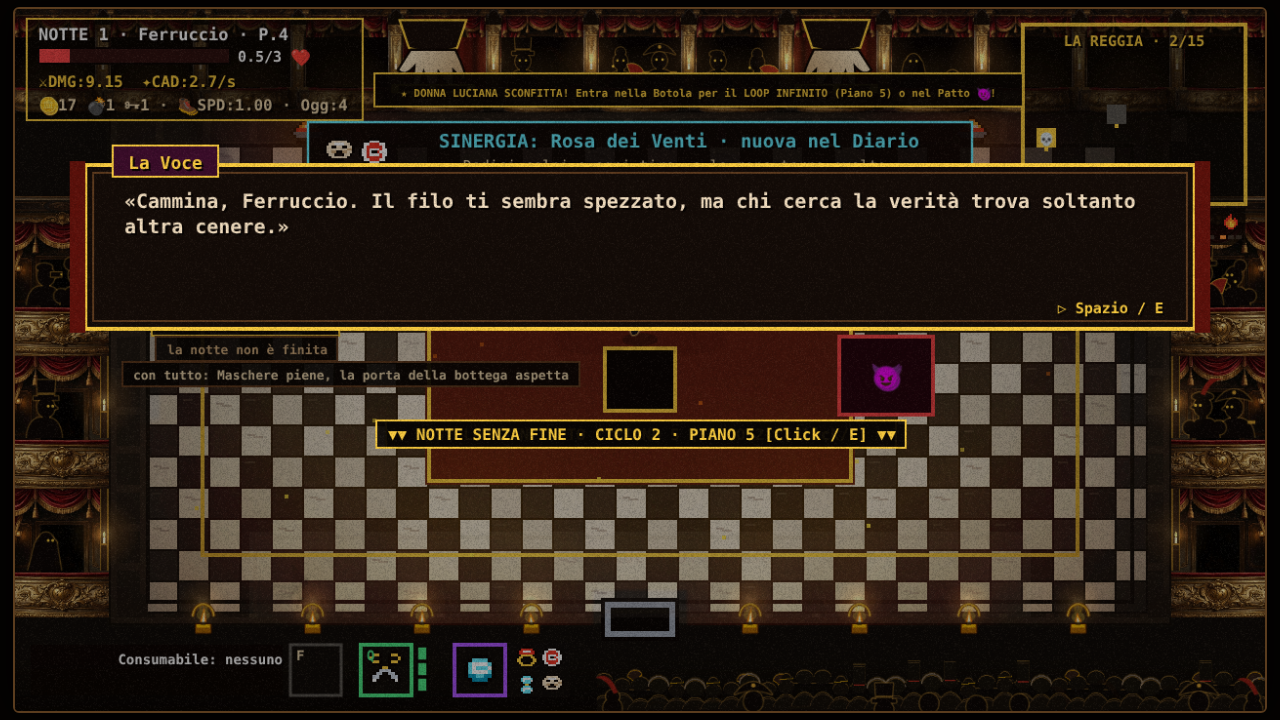
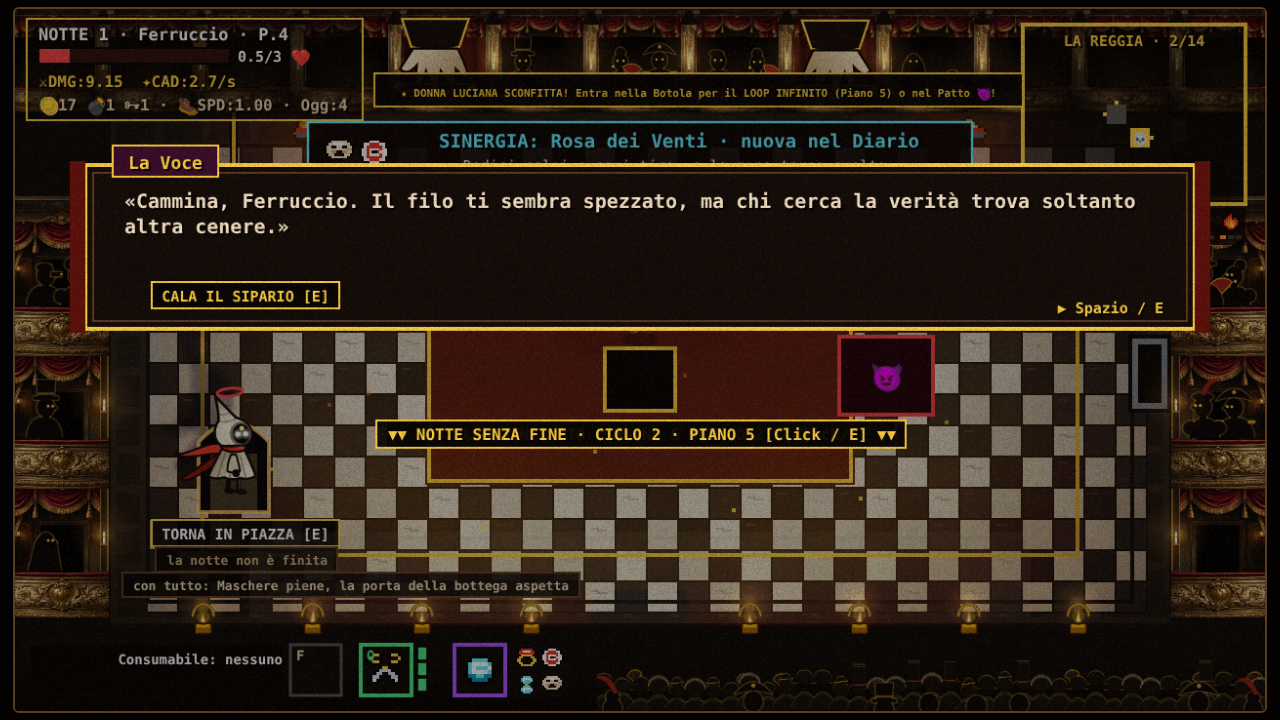
fix(teatro): h4 il cordone del sipario resta, la seconda uscita gli sta sotto
La suite finali si aspetta il cordone dopo la seconda caduta di Donna Luciana: ora ci sono entrambi.

Claude-Session: https://claude.ai/code/session_01F5x6kDAQ4qaiYDiFx9jQb5

diff --git a/gioco/teatro/h4-ritorno-piazza.js b/gioco/teatro/h4-ritorno-piazza.js
@@ -32,8 +32,8 @@
 // ===========================================================================
 const RITORNO_H4 = Object.freeze({
   bossFinale: 'donna-luciana',
-  /** La seconda uscita nella stanza di Donna Luciana (dove b8 metteva il cordone del sipario). */
-  uscita: Object.freeze({ x: 112, y: 128, raggio: 42 }),
+  /** La seconda uscita nella stanza di Donna Luciana: a sinistra, sotto il cordone del sipario di b8 (112, 128). */
+  uscita: Object.freeze({ x: 112, y: 236, raggio: 40 }),
   /**
    * Scala del Burattinaio. forza = (danno × colpi al secondo) della dotazione / quella di Ferruccio a mani nude
    * (3,50 × 2,73 ≈ 9,6, lo stesso DPS 0 oggetti misurato da tools/sim-bilancio-teatro.js), tenuta fra forzaMin e
@@ -61,6 +61,7 @@ const TESTI_H4 = Object.freeze({
   uscitaSotto: 'la notte non è finita',
   uscitaSotto2: 'con tutto: Maschere piene, la porta della bottega aspetta',
   banner: (ciclo) => `★ DONNA LUCIANA È CADUTA! Botola: NOTTE SENZA FINE (ciclo ${ciclo}) · A sinistra: torna in piazza, la notte non è finita`,
+  bannerAggiunta: 'In basso a sinistra: torna in piazza, la notte non è finita',
   rientro: 'Piazza Dante · la notte è ancora viva · Maschere piene',
   tonino: "Ancora 'n giro, guagliò? Stanotte 'a porta 'e Gaetano nun s'è chiusa. Vai, ca t'aspetta.",
   piazzaViva: 'LA NOTTE È VIVA · la porta della bottega aspetta',
@@ -123,9 +124,14 @@ function vicinoUscitaH4() {
 function dopoLucianaH4(st) {
   const b = st && st.nemici && (st.nemici.find((n) => n.boss) || st.nemici[0]);
   if (!b || b.bossId !== RITORNO_H4.bossFinale || !portaProntaH4()) return;
-  st.cordoneB8 = false;
-  st.ritornoH4 = true;
-  try { if (typeof b8 === 'object' && b8) b8.bannerPendente = { st, testo: TESTI_H4.banner((statoRun.ciclo || 1) + 1) }; } catch (_) { /* b8 assente */ }
+  st.ritornoH4 = true; // il cordone di b8 resta: l'ultimo atto si può ancora rimettere in scena
+  try {
+    if (typeof b8 === 'object' && b8) {
+      const bp = b8.bannerPendente;
+      if (bp && bp.st === st) bp.testo = `${bp.testo} · ${TESTI_H4.bannerAggiunta}`;
+      else b8.bannerPendente = { st, testo: TESTI_H4.banner((statoRun.ciclo || 1) + 1) };
+    }
+  } catch (_) { /* b8 assente */ }
 }
 
 /**

diff --git a/tools/qa-teatro-ritorno-piazza.js b/tools/qa-teatro-ritorno-piazza.js
@@ -88,7 +88,7 @@ const foto = (n) => `${prefisso}-${n}.png`;
   l = await finoALuciana();
   await passi(p, 80);
   st = await p.evaluate(() => ({ cordone: Boolean(statoRun.stanzaCorrente.cordoneB8), ritorno: Boolean(statoRun.stanzaCorrente.ritornoH4) }));
-  ok('pronta-uscita-al-posto-del-cordone', st.ritorno && !st.cordone, st);
+  ok('pronta-uscita-accanto-al-cordone', st.ritorno && st.cordone, st);
   await p.evaluate(() => { try { a7.pergamena = null; } catch (_) { /* a7 */ } statoRun.hpHalf = 1; const U = window.__teatro.interni.RITORNO_H4.uscita; player.x = U.x; player.y = U.y + 4; });
   await scatta('01-seconda-uscita');
   const prima = await dotazione();

diff --git a/gioco/teatro/LEGGIMI.md b/gioco/teatro/LEGGIMI.md
@@ -45,7 +45,7 @@ Le dichiarazioni di primo livello (`const`/`let`/`function`) stanno nello scope 
 | `d6-acquedotto.js` | (d6) L'ACQUEDOTTO CAROLINO, percorso alternativo al piano 2. LA SCELTA: battuto il boss del piano 1 del ciclo, a sinistra della botola compare la GRATA DEL CONDOTTO col cartiglio del luogo; è chiusa da un lucchetto (1 chiave con [E] o click) ed è già aperta se il boss è caduto senza far perdere più di una Maschera; chi scende di lì ha `statoRun.percorsoD6[piano] = 'acquedotto'` e fa il piano 2 all'Acquedotto, poi il piano 3 è San Leucio di sempre. IL QUARTIERE `QUARTIERE_D6` (stessi campi di `QUARTIERI_PIANI`): `getQuartierePiano`, cartellone, pavimento di tufo e scenografia dipinta su una tela propria (fondale coi Ponti della Valle, quinte coi tre ordini di archi), fiaccole e drappi. LE REGOLE DEL LUOGO: canali in `stanza.canaliD6` (`{x, y, w, h, dx, dy}`: dentro il passo si accorcia e la corrente spinge giocatore, nemici a terra e raccoglibili; chi vola la ignora) e la raffica di vento (`calma → annuncio → raffica`: fiaccole e drappi si piegano, poi i proiettili di tutti piegano di traverso; mai a stanza pulita né dal boss). I NEMICI `NEMICI_D6` prendono il posto di quelli della Villa (`SOSTITUZIONI_D6`: lucciola → Rondone di Latta, statua → Lavandaia di Tufo coi panni bagnati che inzuppano, predone → Fontaniere che gira la saracinesca e inverte la corrente), così gruppi e disposizioni di b7 restano validi. IL BOSS Il Guardiano delle Acque nello schema di b6 (`SCHEDA_D6`, `BOSS_D6`, `STATI_D6`: getto, piena che allaga l'arena in `stanza.acquaD6`, immersione, secca; 2 fasi; segno in `SEGNI_A6`). IL PERCHÉ: oggetto forte garantito («Dono dell'Acquedotto»), `percorso: 'acquedotto'` nella voce del Registro di a7 (riga nella pergamena) e riga nel Diario di b8; tema `acquedotto` aggiunto a `MUSICA.temi` (a8) e scelto finché si è nel luogo. Tabelle `ACQUEDOTTO_D6`, `TESTI_D6`, `TINTE_D6`, `MUSICA_D6`. UNICO AGGANCIO di base: `40-combattimento.js` → `iaNemicoD6` (IA dei nemici comuni); il resto avvolge `getQuartierePiano`, `getFloorTileCanvas`, `getRaccontoAtto`, `disegnaAtmosferaQuartiere`, `nuovaRun`, `avviaPiano`, `generaMappaPiano`, `popolaStanza`, `entraInStanza`, `verificaStanzaPulita`, `interagisciStanza`, `passoLogico`, `massaNemico`, `disegnaNemicoPittorico`, `disegnaBossPittorico`, `disegnaStanzaPixelArt`, `disegnaHUDPixelArt`, `disegnaPergamenaA7`, `componiPaginaB8`. Caricato dopo `c2-tocco.js`. Sonda `interni.acquedottoD6` (`attivo`, `segna`, `prendi`, `grata`, `vento`, `forzaVento`, `canali`, `corrente`, `stato`). QA: `tools/qa-teatro-acquedotto.js` (96 controlli) |
 | `e6-assistenza.js` | (e6) ASSISTENZA. **Riprendi la notte**: a ogni inizio di piano un'istantanea della dotazione (localStorage `ferruccio.teatro.ripresa.<slot>`, versione 1; oggetti per id+mod riapplicati con `ricalcolaStatistiche`, campi `statoRun.percorso*` copiati in modo generico); in Piazza Dante un cartello «Riprendi la notte (Piano N, personaggio)» / «Nuova notte» (tastiera, pad, tocco: `comandiB3.menuAperti`); riprese contate nel Registro (`riprese`); cancellata a morte, vittoria, ritorno volontario. **Mira assistita** (Opzioni: Spenta/Leggera/Piena, `OPZIONI.miraAssistita`): avvolge `eseguiAttacco4Direzioni`, `sparaProiettiliDirezione`, `colpoMaglioD2`. **Conto della notte**: sostituisce il disegno di `disegnaPergamenaA7` (stessi dati e chiusura di a7), consigli per causa in `CONSIGLI_E6`. Tabelle `ASSISTENZA_E6`, `TESTI_E6`; interni `assistenzaE6`, `miraE6`. QA `tools/qa-teatro-assistenza.js` |
 | `e4-prestazioni.js` | (e4) QUALITÀ AUTOMATICA sul telefono: se la media mobile del fotogramma resta sopra `QUALITA_E4.bersaglioMs` per `attesaSpegniMs`, spegne per la sessione grana → ombre lunghe → pubblico → vignetta (solo quelli accesi; mai quelli cambiati a mano), e li riaccende con margine (attesa che raddoppia a ogni ricaduta). `salvaOpzioni` salva sempre i valori del giocatore. Riga «Qualità automatica» (`OPZIONI.qualitaAuto`) nelle Opzioni dopo «Ombre lunghe». Attiva solo col tocco e non sotto webdriver (`interni.qualitaAutoE4.forza(true)` per le prove). Avvolge `disegnaFrame`, `salvaOpzioni`, `impostaOpzioneB3`, `righeB3`. Caricato dopo `d4-stanze-teatro.js`. Profilo: `tools/profilo-teatro.js`, rapporto `production/prestazioni-teatro.md`. QA: `tools/qa-teatro-prestazioni.js` |
-| `h4-ritorno-piazza.js` | (h4) RITORNO IN PIAZZA. Caduta Donna Luciana con la porta della bottega pronta (b8: tre sigilli + finale vero, o porta aperta) il cordone diventa «Torna in piazza»: piazza con la notte VIVA (stessa run, Maschere piene, nessuna pergamena), Tonino e la porta che pulsa; a ogni ciclo. Dalla Fucina «Sali» apre la rastrelliera dei ferri (ognuno: passo −10% nello scontro) e d1 parte senza `nuovaRun` con la dotazione (agganci `opz.notteViva/vita/ritmo/ferri` in d1), Burattinaio scalato su forza (dmg×colpi/s) e ciclo (`RITORNO_H4.scala`). Porta di destra = ciclo seguente; vittoria chiude la notte col conto (a7). Avvolge `t4Gancio`, `interagisciStanza`, `disegnaStanzaPixelArt`, `ricalcolaStatistiche`, `interni.nuovaRun`, `interni.scontroSopraLaRibalta`. Tabelle `RITORNO_H4`, `TESTI_H4`; interni `ritornoH4`. QA `tools/qa-teatro-ritorno-piazza.js` |
+| `h4-ritorno-piazza.js` | (h4) RITORNO IN PIAZZA. Caduta Donna Luciana con la porta della bottega pronta (b8: tre sigilli + finale vero, o porta aperta) sotto il cordone compare «Torna in piazza»: piazza con la notte VIVA (stessa run, Maschere piene, nessuna pergamena), Tonino e la porta che pulsa; a ogni ciclo. Dalla Fucina «Sali» apre la rastrelliera dei ferri (ognuno: passo −10% nello scontro) e d1 parte senza `nuovaRun` con la dotazione (agganci `opz.notteViva/vita/ritmo/ferri` in d1), Burattinaio scalato su forza (dmg×colpi/s) e ciclo (`RITORNO_H4.scala`). Porta di destra = ciclo seguente; vittoria chiude la notte col conto (a7). Avvolge `t4Gancio`, `interagisciStanza`, `disegnaStanzaPixelArt`, `ricalcolaStatistiche`, `interni.nuovaRun`, `interni.scontroSopraLaRibalta`. Tabelle `RITORNO_H4`, `TESTI_H4`; interni `ritornoH4`. QA `tools/qa-teatro-ritorno-piazza.js` |
 | `t2-sprite.js`, `sim-economia.js` | non collegati / strumenti |
 
 ## Regole per aggiungere codice
